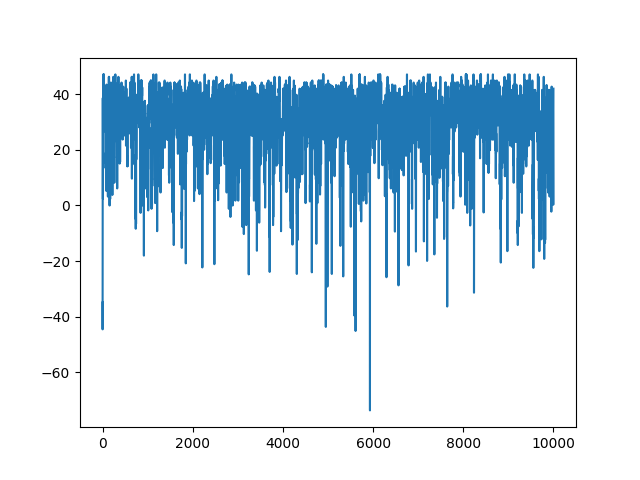
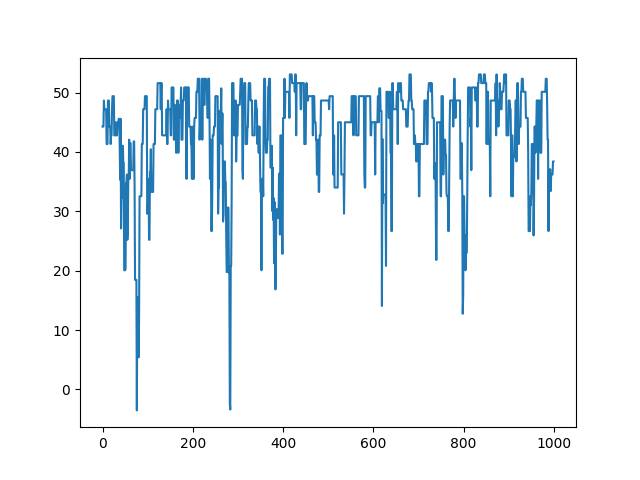
Alterações e comentários

diff --git a/templates/maximize.py b/templates/maximize.py
@@ -9,12 +9,16 @@ quantization = (high_bound - low_bound) / (2 ** 4 - 1)  # quantização
 fc = lambda x, exp: np.sum(x * 2 ** exp) * quantization + low_bound  # decoficação
 fy = lambda x1, x2, x3, x4: 5 * fc(x1, exp) - 3 * fc(x2, exp) * fc(x3, exp) \
                             + fc(x3, exp) - 2 * fc(x4, exp)  # função objetiva
-s0 = np.array([0, 1, 1, 0,
-               1, 1, 0, 0,
-               1, 0, 1, 1,
-               0, 0, 0, 1])  # Estado inicial
+#Matteus Vargas: o fy é o cara que preciso ficar modificando. Só preciso entender melhor os detalhes aqui
 
-M = 10000  # Numero de geração
+s0 = np.random.randint(2, size=16) #Matteus Vargas: deixei a população inicial aleatória. Vou trocar isso para entrada do usuário
+print(f'População inicial (random) {s0}')
+# s0 = np.array([0, 1, 1, 0,
+#              1, 1, 0, 0,
+#             1, 0, 1, 1,
+#            0, 0, 0, 1])  # Estado inicial
+
+M = 1000  # Numero de geração #Matteus Vargas: quero deixar esse valor aberto, só preciso achar uma forma de parada
 score = []  # melhor resultado da função objetiva
 score_fit = []  # Armazena o melhor da geração
 
@@ -28,6 +32,7 @@ def cromo(s0):
     vet.append(s0[12:])
     return vet
 
+#Matteus Vargas: vou arrumar uma maneira de particionar as operações de GA em defs e colocar em outro arquivo. Deixar esse só para elaborar a função em si
 
 for i in range(M):
     cromosome = []  # Guarda os cromossomos com crossover
